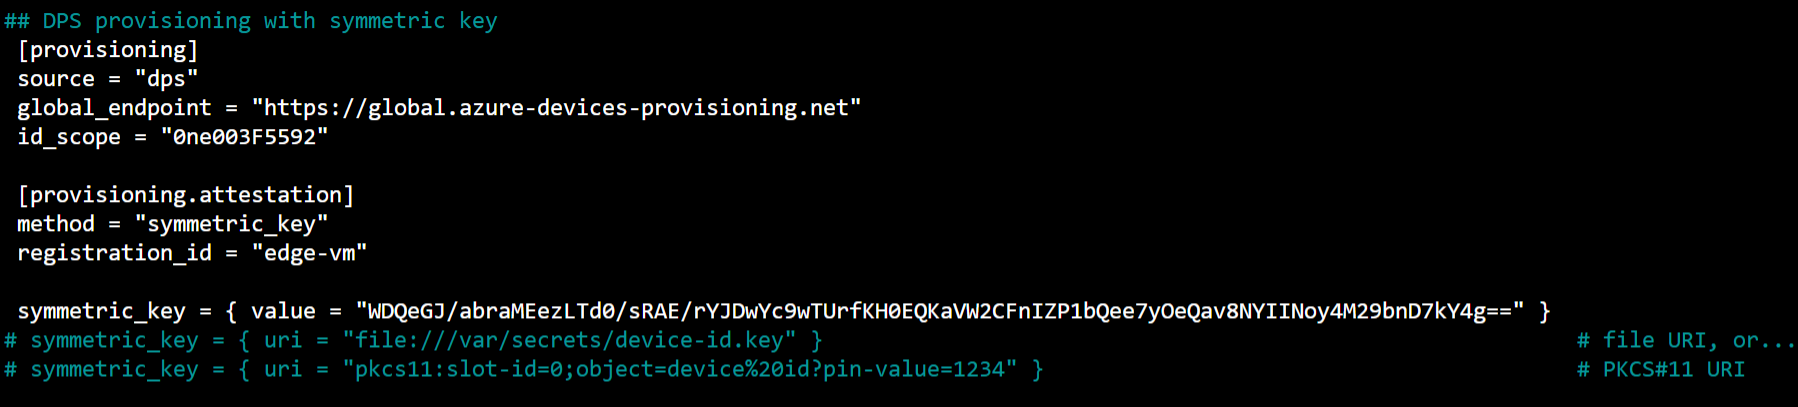
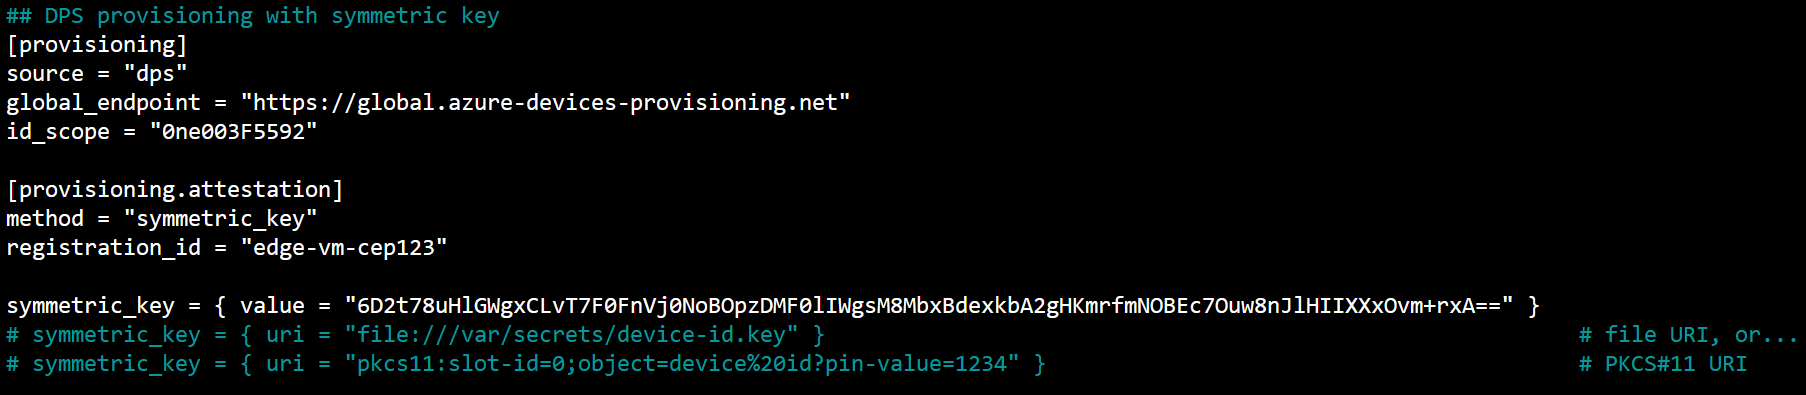
More updates

diff --git a/Hands-on lab/HOL step-by-step - Internet of Things.md b/Hands-on lab/HOL step-by-step - Internet of Things.md
@@ -1155,18 +1155,18 @@ Earlier in the lab we provisioned smart meter devices at scale using an enrollme
     | Field | Value |
     |-------|-------|
     | Mechanism | Select **Symmetric Key**. |
-    | Registration ID | Enter `edge-vm`. |
+    | Registration ID | Enter `edge-vm-{SUFFIX}`. |
     | IoT Edge device | Select **True** |
 
     ![The Add Enrollment form displays populated with the preceding values.](media/dps_individualenrollment_edgeform.png "Add Enrollment")
 
-4. On the **Manage enrollments** screen, select the **Individual Enrollments** tab, then select the **edge-vm** registration entry.
+4. On the **Manage enrollments** screen, select the **Individual Enrollments** tab, then select the **edge-vm-{SUFFIX}** registration entry.
 
-    ![The Manage enrollments screen displays with the Individual Enrollments tab selected. The list of individual enrollments displays with edge-vm selected.](media/dps_individualenrollments_list.png "Individual Enrollments")
+    ![The Manage enrollments screen displays with the Individual Enrollments tab selected. The list of individual enrollments displays with edge-vm-{SUFFIX} selected.](media/dps_individualenrollments_list.png "Individual Enrollments")
 
-5. On the edge-vm Enrollment Details screen, copy and record the Primary Key value to a text editor.
+5. On the edge-vm-{SUFFIX} Enrollment Details screen, copy and record the Primary Key value to a text editor.
 
-    ![The edge-vm Enrollment Details screen displays with the copy button highlighted next to the Primary Key value.](media/labvmenrollmentdetails.png "edge-vm Enrollment Details")
+    ![The edge-vm-{SUFFIX} Enrollment Details screen displays with the copy button highlighted next to the Primary Key value.](media/labvmenrollmentdetails.png "edge-vm-{SUFFIX} Enrollment Details")
 
 ### Task 2: Deploy a Linux server as an IoT Edge device
 
@@ -1180,7 +1180,7 @@ The IoT Edge runtime can be installed on various form factors, from small develo
 
     | Field | Value |
     |-------|-------|
-    | Virtual machine name | Enter `edge-vm`. |
+    | Virtual machine name | Enter `edge-vm-{SUFFIX}`. |
     | Authentication type | Select **Password**. |
     | Username | Enter `demouser`. |
     | Password | Enter `Password.1!!`. |
@@ -1194,11 +1194,11 @@ The IoT Edge runtime can be installed on various form factors, from small develo
 
     ![The edge-vm screen displays with the Not configured link highlighted next to the DNS name label.](media/iotedge_hostnamenotconfigured.png "Host name not configured")
 
-6. On the **edge-vm-ip** Configuration screen, provide a globally unique DNS name label such as **edge-vm-{suffix}**. Then select **Save**.
+6. On the **edge-vm-ip** Configuration screen, provide the DNS name label **edge-vm-{SUFFIX}**. It is important that this value matches the registration ID of the device in DPS. Select **Save**.
 
     ![The edge-vm-ip Configuration screen displays with the DNS label set to edge-vm-suffix and the save button is highlighted in the toolbar menu.](media/iotedge_sethostname_portal.png "edge-vm-ip Configuration")
 
-7. Wait a few moments, then refresh the Overview screen of edge-vm. The DNS name value should now be populated with the label you assigned in the previous step.
+7. Wait a few moments, then return to the **edge-vm-{SUFFIX}** Overview screen and select **Refresh** from the toolbar menu. The DNS name value should now be populated with the label you assigned in the previous step.
 
    ![A portion of the edge-vm Overview screen displays with the DNS name value populated.](media/iotedge_dnsnamepopulated.png "Host name is configured")
 
@@ -1212,13 +1212,13 @@ The IoT Edge runtime can be installed on various form factors, from small develo
     ssh demouser@{ipAddress}
     ```
 
-10. When prompted for a password, enter `Password.1!!`.
+10. If prompted to trust the fingerprint, enter `yes`.
 
-11. If prompted to trust the fingerprint, enter `yes`.
+11. When prompted for a password, enter `Password.1!!`.
 
-12. You are now connected to the virtual machine, you can tell by the prompt changing to **demouser@edge-vm**. All commands executed will now be run on the virtual machine.
+12. You are now connected to the virtual machine, you can tell by the prompt changing to **demouser@edge-vm-{SUFFIX}**. All commands executed will now be run on the virtual machine.
 
-    ![The Bash prompt displays demouser@edge-vm.](media/bash_demouserprompt.png "Bash prompt")
+    ![The Bash prompt displays demouser@edge-vm-{SUFFIX}.](media/bash_demouserprompt.png "Bash prompt")
 
 13. Install the Microsoft installation packages repository configuration by executing the following.
 
@@ -1238,7 +1238,7 @@ The IoT Edge runtime can be installed on various form factors, from small develo
     curl https://packages.microsoft.com/keys/microsoft.asc | gpg --dearmor > microsoft.gpg
     ```
 
-16. Copy the key to a trusted location by executing the following command.
+16. Copy the key to the trusted location by executing the following command.
 
     ```Bash
     sudo cp ./microsoft.gpg /etc/apt/trusted.gpg.d/
@@ -1302,7 +1302,7 @@ The IoT Edge runtime can be installed on various form factors, from small develo
 
     ![A Bash window displays with the sudo iotedge list command executed. The edgeAgent module displays as running.](media/iotedge_edgelist_agentrunning.png "IoT Edge module listing")
 
-27. In the Azure Portal, open the lab resource group and select the **smartmeter-hub-{suffix}** IoT Hub. Verify the IoT Edge device successfully registered through the DPS by selecting **IoT Edge** from the left menu and finding **edge-vm** in the listing.
+27. In the Azure Portal, open the lab resource group and select the **smartmeter-hub-{SUFFIX}** IoT Hub. Verify the IoT Edge device successfully registered through the DPS by selecting **IoT Edge** from the left menu and finding **edge-vm-{SUFFIX}** in the listing.
 
     ![The IoT Hub screen displays with IoT Edge selected from the left menu and edge-vm highlighted in the IoT Edge Devices listing.](media/iothub_edgevm.png "Azure IoT Edge Devices Listing")
 
@@ -1313,6 +1313,21 @@ The IoT Edge runtime can be installed on various form factors, from small develo
     ```
 
 29. Keep the cloud shell window open and connected to the edge-vm via ssh for the next task.
+
+30. In the Azure Portal, open the lab resource group and select the **edge-vm-{SUFFIX}-nsg** Network security group.
+
+31. From the left menu, select **Inbound security rules**, then **+ Add**.
+
+    ![The edge-vm-nsg resource screen displays with Inbound security rules selected from the left menu and the + Add button highlighted in the toolbar menu.](media/nsg_inbound_addmenu.png "Inbound network security rules")
+
+32. In the **Add inbound security rule** blade, fill the form as follows and select **Add**. Fields not mentioned retain their default value.
+
+    | Field | Value |
+    |-------|-------|
+    | Destination port ranges | Enter `5671`. |
+    | Name | Enter `AMQP`. |
+
+    ![The Add inbound security rule blade displays populated with the aforementioned values.](media/addinboundruleform.png "Add inbound security rule")
 
 ### Task 3: Generate test certificates for downstream device connectivity
 
